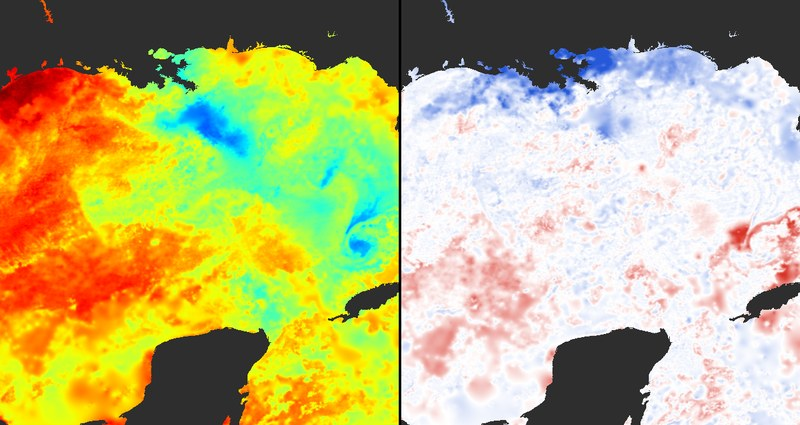
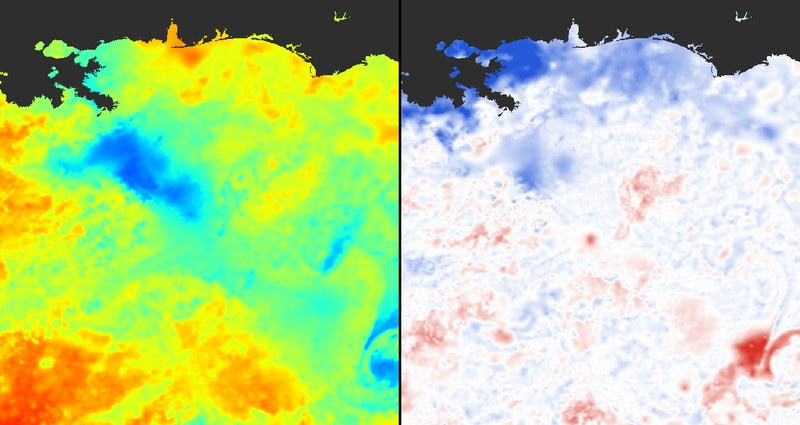
Gallery: the hurricanes card shows each day's date and storm, plays a day a second, and opens closer on Katrina inside one tile; the solar flare as a Python-only card

diff --git a/web/src/cards.ts b/web/src/cards.ts
@@ -27,9 +27,15 @@ export interface PipelineCard extends Card {
   position: number[];        // full-resolution voxels of the first view, along its axes
   zoom: number;              // full-resolution voxels per screen pixel
   orientation?: number[];    // the slices' rotation (a quaternion), e.g. north up for a map
+  timeline?: Timeline;       // the date on screen, for an axis of days
+  playback?: { axis: string; velocity: number };  // the viewer's play button: steps per second
 }
+/** Dates along an axis whose coordinate counts days from `start`, and what happened on some. */
+export interface Timeline { axis: string; start: string; events: { from: string; to?: string; text: string }[] }
 export interface LinkCard extends Card { kind: "link"; href: string }
-export type DemoCard = PipelineCard | LinkCard;
+/** A demo that runs from Python only (its data cannot be read from a browser page). */
+export interface PythonCard extends Card { kind: "python"; why: string }
+export type DemoCard = PipelineCard | LinkCard | PythonCard;
 
 const COSEM = "https://janelia-cosem-datasets.s3.amazonaws.com/jrc_hela-2";
 const PRED = `${COSEM}/jrc_hela-2.n5/labels`;
@@ -111,9 +117,38 @@ export const CARDS: DemoCard[] = [
       { name: "change", view: "change", type: "image", shader: CHANGE },
     ],
     panels: [["temperature"], ["change"]],
-    position: [1185, 11500, 9100], zoom: 2,
+    // Katrina's track across the Gulf, inside one of MUR's 18 x 36 degree tiles, so a new
+    // 5-day stretch is one download
+    position: [1185, 11699, 9249], zoom: 1.2,
     orientation: [1, 0, 0, 0],  // latitude increases northward: turn the map north up
+    playback: { axis: "time", velocity: 1 },  // a day a second
+    timeline: {
+      axis: "time", start: "2002-06-01",
+      events: [
+        { from: "2005-08-23", to: "2005-08-24", text: "A tropical depression over the Bahamas becomes Katrina." },
+        { from: "2005-08-25", text: "Katrina crosses southern Florida, a category 1 hurricane, into the Gulf." },
+        { from: "2005-08-26", to: "2005-08-27", text: "Katrina strengthens over the Gulf's warm water." },
+        { from: "2005-08-28", text: "Katrina reaches category 5 in the central Gulf." },
+        { from: "2005-08-29", text: "Katrina makes landfall in Louisiana, a category 3 hurricane. Behind it, the cold water it stirred up from below." },
+        { from: "2005-08-30", to: "2005-09-17", text: "Katrina's cold wake warms again." },
+        { from: "2005-09-18", to: "2005-09-19", text: "Rita forms near the Turks and Caicos." },
+        { from: "2005-09-20", text: "Rita passes the Florida Keys into the Gulf." },
+        { from: "2005-09-21", to: "2005-09-22", text: "Rita reaches category 5 in the central Gulf." },
+        { from: "2005-09-23", text: "Rita heads for the Texas-Louisiana border." },
+        { from: "2005-09-24", text: "Rita makes landfall at the Texas-Louisiana border, a category 3 hurricane." },
+        { from: "2005-10-21", to: "2005-10-22", text: "Wilma crosses the Yucatán Peninsula into the Gulf." },
+        { from: "2005-10-23", to: "2005-10-24", text: "Wilma crosses the Gulf and makes landfall in southwest Florida (24 October)." },
+      ],
+    },
     command: `chunkmirage serve '${MUR}' --op diff:axis=0,lag=1 --chunk 1,256,256 --python-viewer`,
+  },
+  {
+    kind: "python", id: "solar", image: "cards/solar.jpg",
+    title: "A solar flare in the running difference",
+    blurb: "NASA's Solar Dynamics Observatory images the sun every 6 minutes: 73 thousand 512 x 512 frames for 2014 in one array of its public machine-learning dataset. Each frame minus the one before, the running difference solar physicists watch for what changes, is computed as the viewer asks: on 10 September 2014 an X1.6 flare erupts from the centre of the disk. Left, the sun at 171 Å; right, its change in 6 minutes.",
+    data: "SDO machine-learning dataset v2, AIA 171 Å, 2014 (NASA FDL; NASA's open data bucket)",
+    why: "NASA's bucket does not let a browser page read it (no CORS), so this one runs from Python.",
+    command: "uv run python examples/solar_flares.py",
   },
   {
     kind: "link", id: "register-fly", image: "cards/register-fly.jpg",

diff --git a/web/src/pipeline.ts b/web/src/pipeline.ts
@@ -3,7 +3,7 @@
 // would serve them. Each chunk's input region is read by the page's one reader (reader.ts)
 // and computed by a Pyodide worker (pyworker.ts) running chunkmirage's own ops; chunks the
 // viewer gives up on before their turn are dropped.
-import { CARDS, type CardLayer, type PipelineCard } from "./cards";
+import { CARDS, type CardLayer, type PipelineCard, type Timeline } from "./cards";
 import { Cancelled, Claim, Queue } from "./demand";
 import type { Answer, Later, Reply, SourceInfo, ToPyWorker, ToReader, ViewAxis, ViewInfo } from "./types";
 
@@ -188,12 +188,37 @@ async function viewerState(card: PipelineCard) {
     dimensions: dims, position: order.map((a) => card.position[a] + 0.5 + l0.origin[a] / l0.voxel[a]),
     displayDimensions: names, crossSectionScale: card.zoom,
     ...(card.orientation ? { crossSectionOrientation: card.orientation } : {}),
+    ...(card.playback ? { velocity: { [card.playback.axis]: { velocity: card.playback.velocity, atBoundary: "stop", paused: true } } } : {}),
     crossSectionBackgroundColor: "#000000", showAxisLines: false, layers,
     layout: card.panels.length === 1
       ? { type: "viewer", layers: card.panels[0], layout: "xy" }
       : { type: "row", children: card.panels.map((names) => ({ type: "viewer", layers: names, layout: "xy" })) },
     selectedLayer: { visible: false }, size: [main.clientWidth, main.clientHeight],
   };
+}
+
+/** The date at the viewer's position on a timeline axis, and what happened that day, kept
+ * up to date as the viewer moves or plays (the viewer itself shows time only in seconds). */
+function showDates(ng: HTMLIFrameElement, t: Timeline, names: string[]) {
+  const axis = names.indexOf(t.axis), start = Date.parse(`${t.start}T00:00:00Z`);
+  const fmt = new Intl.DateTimeFormat("en-GB", { day: "numeric", month: "long", year: "numeric", timeZone: "UTC" });
+  let last = "";
+  const update = (position: Float32Array) => {
+    const day = new Date(start + Math.floor(position[axis]) * 86400e3), iso = day.toISOString().slice(0, 10);
+    if (iso === last) return;
+    last = iso;
+    $("date").textContent = fmt.format(day);
+    $("event").textContent = t.events.find((e) => e.from <= iso && iso <= (e.to ?? e.from))?.text ?? "";
+  };
+  $("when").hidden = false;
+  const attach = () => {
+    // eslint-disable-next-line @typescript-eslint/no-explicit-any
+    const viewer = (ng.contentWindow as any)?.viewer;
+    if (!viewer?.position) return void setTimeout(attach, 200);
+    viewer.position.changed.add(() => update(viewer.position.value));
+    update(viewer.position.value);
+  };
+  attach();
 }
 
 async function start() {
@@ -226,8 +251,10 @@ async function start() {
   chunks = new Queue<ArrayBuffer>(n);
   status(`Python ready in ${((performance.now() - t0) / 1000).toFixed(1)} s. Chunks are computed as the viewer asks for them.`);
   const ng = $<HTMLIFrameElement>("ng");
-  ng.src = `ng/index.html#!${encodeURIComponent(JSON.stringify(await viewerState(card)))}`;
+  const state = await viewerState(card);
+  ng.src = `ng/index.html#!${encodeURIComponent(JSON.stringify(state))}`;
   ng.hidden = false;
+  if (card.timeline) showDates(ng, card.timeline, state.displayDimensions);
   $("empty").hidden = true;
   showCounts();
 }

diff --git a/web/src/gallery.ts b/web/src/gallery.ts
@@ -3,7 +3,7 @@ import { CARDS } from "./cards";
 
 const root = document.getElementById("cards")!;
 for (const c of CARDS) {
-  const href = c.kind === "pipeline" ? `pipeline.html?card=${c.id}` : c.href;
+  const href = c.kind === "pipeline" ? `pipeline.html?card=${c.id}` : c.kind === "link" ? c.href : null;
   const card = document.createElement("article");
   card.className = "card";
   card.innerHTML = `
@@ -15,7 +15,14 @@ for (const c of CARDS) {
       <details><summary>The same from Python</summary><pre></pre></details>
       <div class="actions"><a class="open" href="">Open</a></div>
     </div>`;
-  for (const a of card.querySelectorAll("a")) a.href = href;
+  if (href) for (const a of card.querySelectorAll("a")) a.href = href;
+  else {  // Python only: the command is the way in
+    card.querySelector("img")!.parentElement!.replaceWith(card.querySelector("img")!);
+    card.querySelector("details")!.open = true;
+    card.querySelector("summary")!.textContent = "Run it from Python";
+    card.querySelector(".actions")!.innerHTML = `<p class="why"></p>`;
+    card.querySelector(".why")!.textContent = (c as { why?: string }).why ?? "";
+  }
   card.querySelector("img")!.src = c.image;
   card.querySelector("h2")!.textContent = c.title;
   card.querySelector(".blurb")!.textContent = c.blurb;

diff --git a/web/index.html b/web/index.html
@@ -27,6 +27,7 @@
   .actions { display: flex; gap: 10px; align-items: center; margin-top: auto; padding-top: 6px; }
   .open { padding: 7px 12px; border-radius: 6px; background: var(--accent); color: var(--accent-ink); font-weight: 650; }
   details summary { cursor: pointer; color: var(--muted); font-size: 12px; }
+  .why { margin: 0; color: var(--faint); font-size: 12px; }
   pre { margin: 6px 0 0; padding: 8px; border: 1px solid var(--line); border-radius: 6px; background: var(--bg); font: 11px/1.5 ui-monospace, SFMono-Regular, Menlo, monospace; white-space: pre-wrap; word-break: break-all; }
 </style>
 </head>
@@ -36,7 +37,8 @@
   <p>Each runs in this browser with nothing to install: images are read from public buckets, and
     every chunk on screen is computed here when the viewer asks for it (chunkmirage's own Python
     ops in Pyodide, or the registration solver on your GPU). Each also shows the command that serves
-    the same from Python, for Neuroglancer, Fiji, napari or a dask script.
+    the same from Python, for Neuroglancer, Fiji, napari or a dask script; one, whose data no
+    browser page may read, runs from Python only.
     <a href="https://yuriyzubov.github.io/chunkmirage/">Documentation</a>.</p>
 </header>
 <main><div class="cards" id="cards"></div></main>

diff --git a/web/pipeline.html b/web/pipeline.html
@@ -26,6 +26,9 @@
   pre { margin: 6px 0 0; padding: 8px; border: 1px solid var(--line); border-radius: 6px; background: var(--bg); font: 11px/1.5 ui-monospace, SFMono-Regular, Menlo, monospace; white-space: pre-wrap; word-break: break-all; }
   button { padding: 6px 10px; border: 0; border-radius: 6px; background: var(--accent); color: var(--accent-ink); font: inherit; font-weight: 650; cursor: pointer; }
   .state { color: var(--fg); }
+  .date { font-size: 18px; font-weight: 650; font-variant-numeric: tabular-nums; }
+  #when { display: flex; flex-direction: column; gap: 4px; min-height: 64px; }
+  #when[hidden] { display: none; }
   .counts { font-size: 12px; color: var(--muted); font-variant-numeric: tabular-nums; }
   main { position: relative; min-width: 0; background: #000; }
   main iframe { position: absolute; inset: 0; width: 100%; height: 100%; border: 0; }
@@ -39,6 +42,10 @@
   <div>
     <h1 id="title">chunkmirage demo</h1>
   </div>
+  <section id="when" hidden>
+    <p class="date" id="date"></p>
+    <p class="muted" id="event"></p>
+  </section>
   <p class="muted" id="blurb"></p>
   <p class="faint">Data: <span id="data"></span></p>
   <section>

diff --git a/docs/demos.md b/docs/demos.md
@@ -14,6 +14,7 @@ napari or a dask script.
 | [Organelle contact sites](https://yuriyzubov.github.io/chunkmirage/browser/pipeline.html?card=contacts) | the mitochondria and ER predictions thresholded at 128 (mitochondria labelled), and `contacts` then `label` on the two, stacked and flipped into the EM's frame | OpenOrganelle jrc_hela-2 |
 | [Single mRNA molecules](https://yuriyzubov.github.io/chunkmirage/browser/pipeline.html?card=spots) | `spots` on both FISH channels | Janelia EASI-FISH, fly central brain |
 | [Hurricanes' cold wakes](https://yuriyzubov.github.io/chunkmirage/browser/pipeline.html?card=hurricanes) | `diff` along time: each day's sea temperature minus the day before's | NASA MUR sea-surface temperature, 2002 on, 0.01° |
+| A solar flare (Python only) | `diff` along time on NASA's SDO images of the sun; the gallery shows its command, since NASA's bucket allows no browser page to read it | SDO machine-learning dataset, AIA 171 Å |
 | [Fly brain templates](https://yuriyzubov.github.io/chunkmirage/browser/register.html) | the moving brain resampled through a field solved on your GPU | OME-Zarr RFC-5 examples |
 | [EASI-FISH rounds](https://yuriyzubov.github.io/chunkmirage/browser/register.html?fixed=https://janelia-data-examples.s3.amazonaws.com/fly-efish/NP31_R2_20240119/NP31_R2_1_1_SS00090_Spab_546_Nplp1_647_1x_Central.zarr/0&moving=https://janelia-data-examples.s3.amazonaws.com/fly-efish/NP31_R2_20240119/NP31_R2_2_1_SS00090_FMRFa_546_Proc_647_1x_Central.zarr/0&refine=3&iterations=100,40,40,40&window=15,31,31,31) | an affine found, a field solved, finer fields fitted where you zoom | Janelia EASI-FISH, rounds 1 and 2 |
 
@@ -29,9 +30,11 @@ contact block taking 0.05 to 0.13 s in Python; chunks the viewer gave up on befo
 turn are dropped unrun, as the server drops them. A demo is an entry of `web/src/cards.ts`:
 views (each a pipeline spec: source, `select`, ops, chunks) and a Neuroglancer layout.
 
-The hurricanes card reads MUR, NASA's daily 1 km sea temperature of every ocean
+The hurricanes card shows the date at the viewer's position, and what the storms were doing
+that day, beside the viewer (which shows time only in seconds); its play button steps a
+day a second. It reads MUR, NASA's daily 1 km sea temperature of every ocean
 (6443 × 17999 × 36000 values), which has one resolution in 65 MB tiles of 5 days × 18° ×
-36°: it opens zoomed in on the Gulf of Mexico, one tile per 5 days, and zoomed out to the
+36°: it opens zoomed in on Katrina's track inside one tile, one download per 5 days, and zoomed out to the
 globe the viewer would fetch every tile at full resolution. Its contact-sites card starts
 from OpenOrganelle's predictions rather than its published segmentations, which are stored
 in 512³ blocks (268 MB decoded) at full resolution; `examples/contact_sites.py
